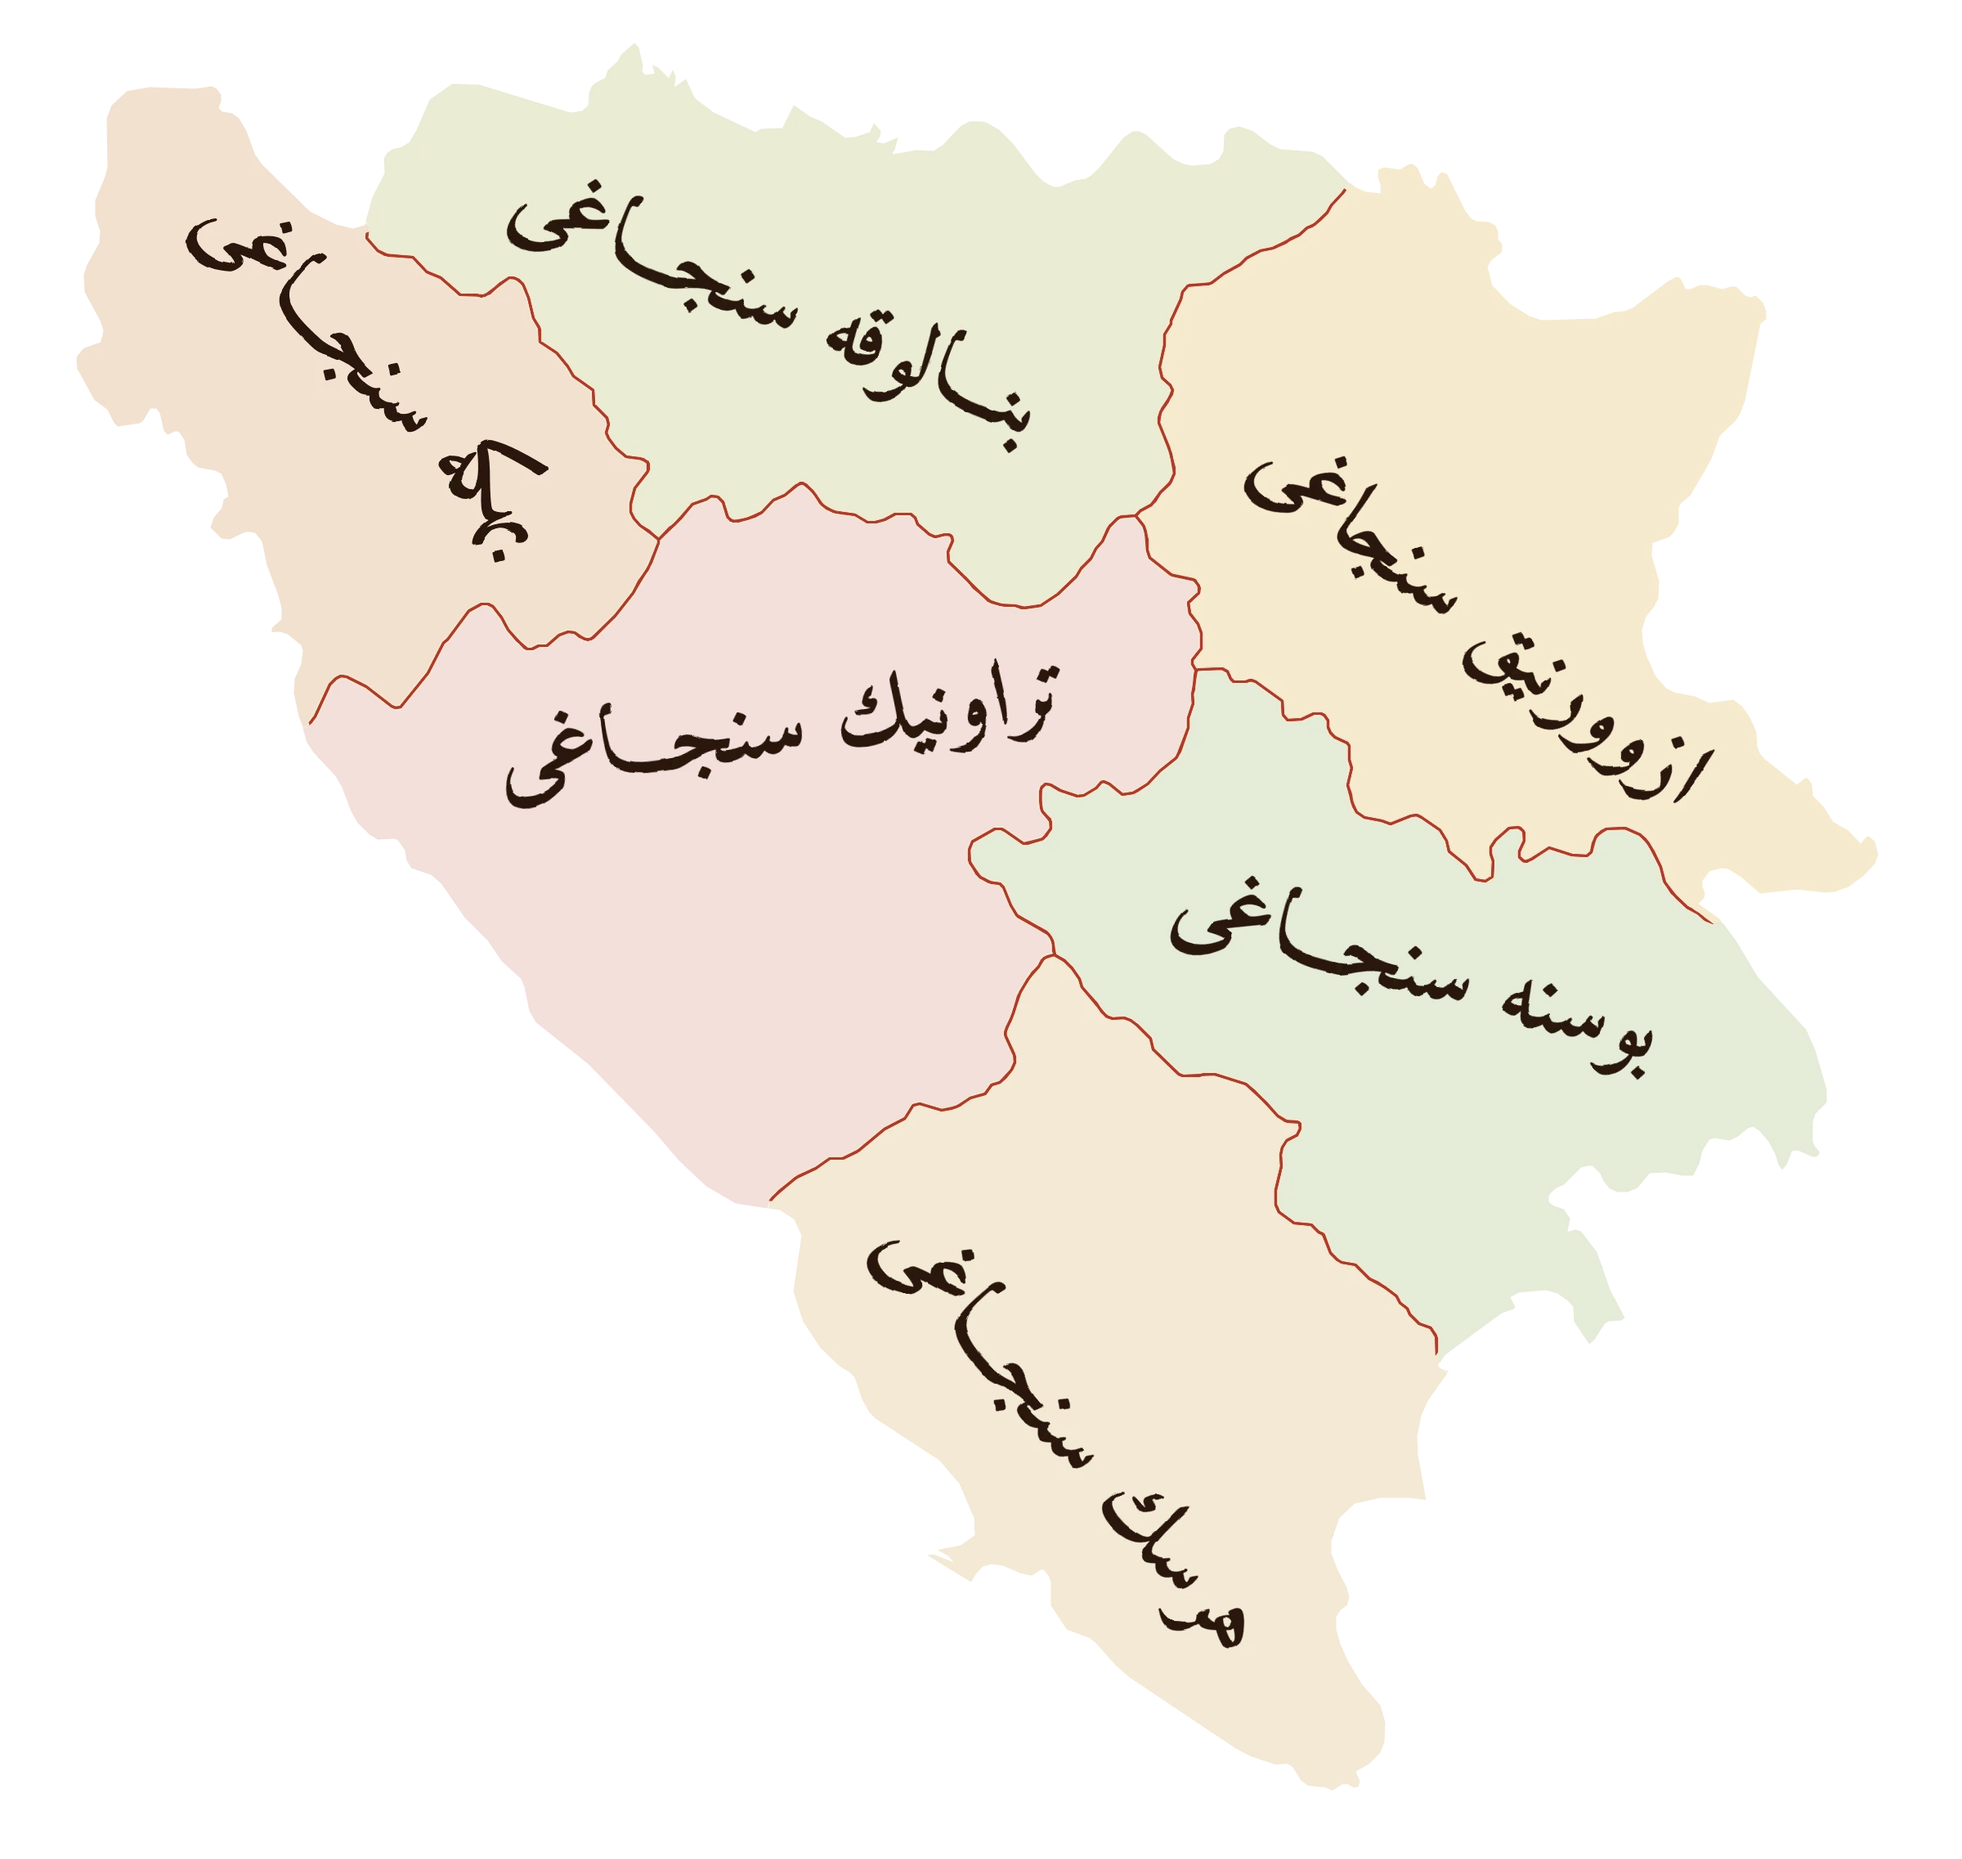
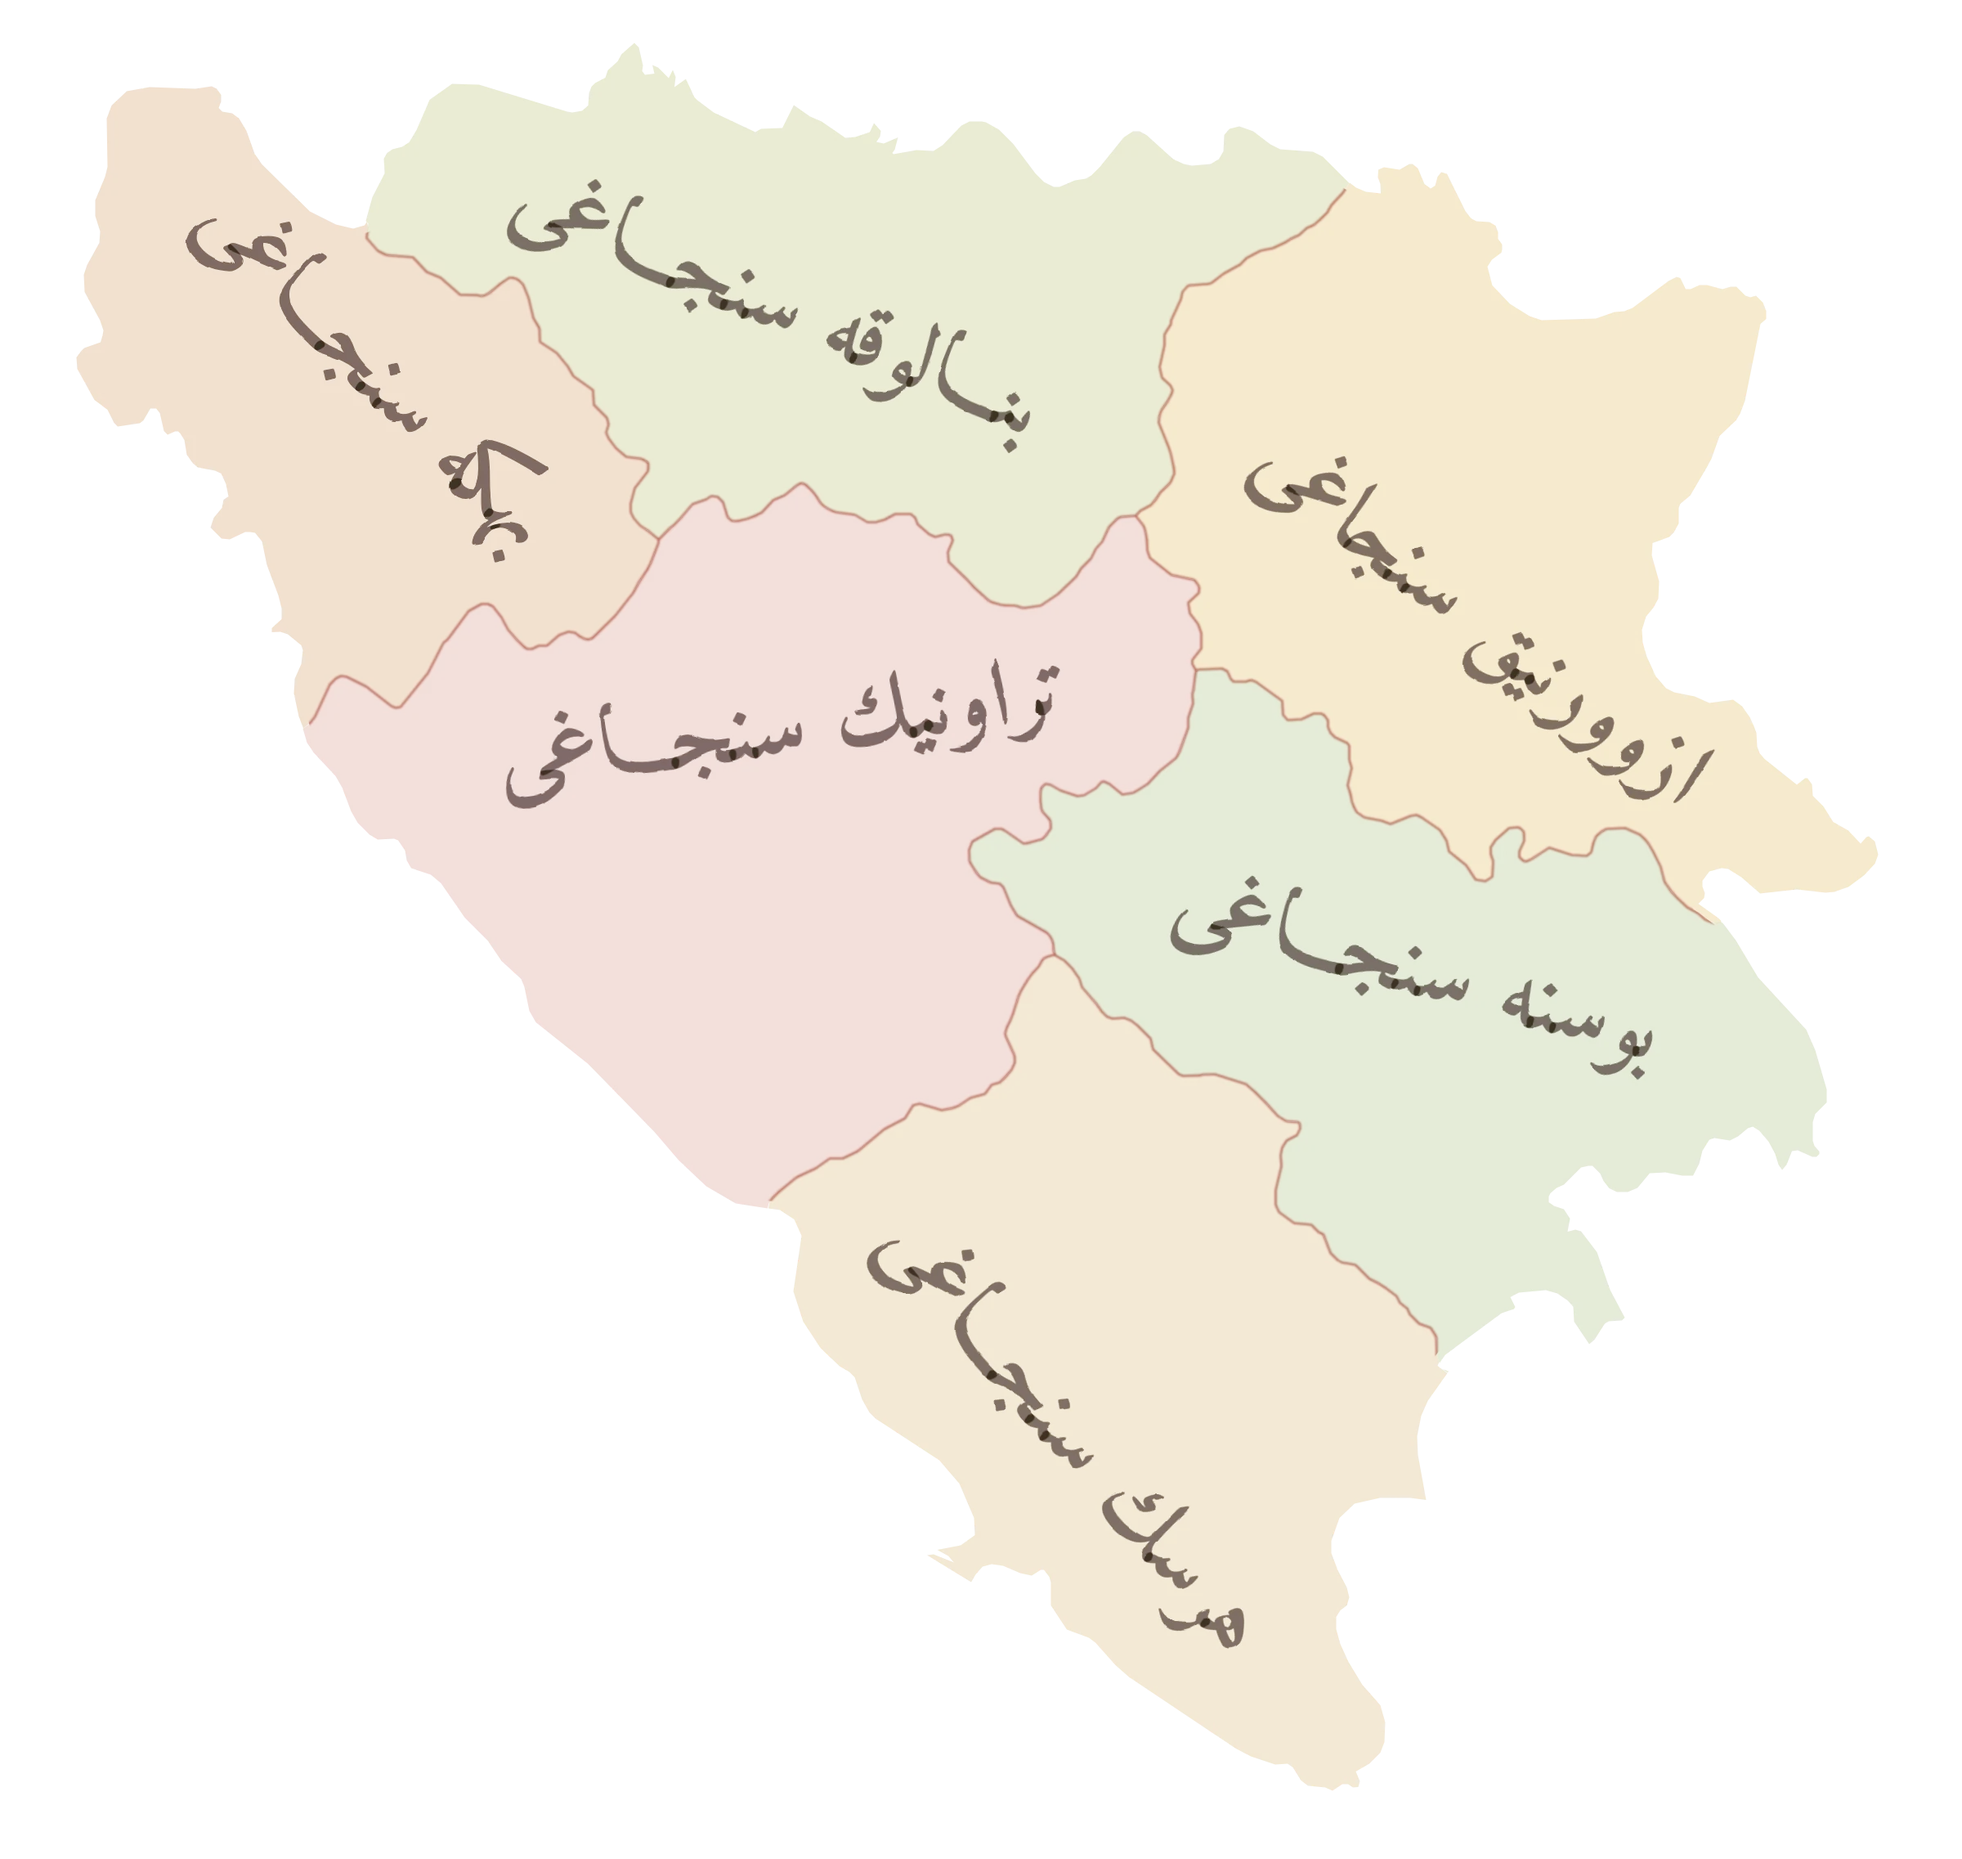
Karte: schlichte Gruppenmarkierung, Zierschicht zurückhaltender
Gruppen als kleiner Nussholz-Kreis mit feinem Goldring statt Şemse-Medaillon.
Sancak-Namen mit halber Deckkraft, Sancak-Grenzen schmaler, heller und weich.

Claude-Session: https://claude.ai/code/session_01RYDkcGLJw7R3TMKLWRs6B8

diff --git a/src/scripts/karta.ts b/src/scripts/karta.ts
@@ -5,7 +5,7 @@
  *   umgefärbt in die Farben der Stilrichtung. Fällt der Dienst aus, bleibt eine
  *   schlichte Karte aus eigenen Daten (Landesgrenze) stehen.
  * - Markierungen: als Bild-Ebenen direkt in der Karte gezeichnet (Spitzbogen =
- *   einzelne Inschrift, Şemse-Medaillon = Gruppe). So bewegen sie sich beim
+ *   einzelne Inschrift, schlichter Kreis mit Anzahl = Gruppe). So bewegen sie sich beim
  *   Verschieben, Zoomen und Drehen exakt mit der Karte mit.
  * - Kompassrose als Nordausrichtung: dreht sich mit, ein Klick richtet nach Norden aus.
  */
@@ -172,22 +172,17 @@ const pinSvg = (farbe: string, gross = false) => {
     <circle cy="-21" r="3.6" fill="${F.krec}"/></svg>`;
 };
 
-const semseSvg = () => {
-  const blaetter = Array.from({ length: 12 }, (_, i) => {
-    const a = (i * Math.PI) / 6;
-    return `<circle cx="${(26 * Math.cos(a)).toFixed(1)}" cy="${(26 * Math.sin(a)).toFixed(1)}" r="7"/>`;
-  }).join('');
-  return `<svg xmlns="http://www.w3.org/2000/svg" width="128" height="128" viewBox="-34 -34 68 68">
-    <g fill="${F.varak}">${blaetter}<circle r="26"/></g>
-    <circle r="21" fill="${F.krec}"/><circle r="18" fill="none" stroke="${F.cilim}" stroke-width="1"/></svg>`;
-};
+/** Gruppe mehrerer Inschriften: schlichter Kreis in Nussholz mit feinem Goldring */
+const gruppeSvg = () => `<svg xmlns="http://www.w3.org/2000/svg" width="64" height="64" viewBox="-16 -16 32 32">
+    <circle r="14.5" fill="none" stroke="${F.varak}" stroke-width="1" opacity="0.9"/>
+    <circle r="12" fill="${F.orah}" fill-opacity="0.92"/></svg>`;
 
 async function ladeBilder(map: MLMap) {
   const auftraege: Promise<void>[] = Object.entries(GRUPPEN).map(async ([id, g]) => {
     map.addImage(`pin-${id}`, await svgBild(pinSvg(g.farbe)), { pixelRatio: 2 });
   });
   auftraege.push(svgBild(pinSvg(F.lapis, true)).then((i) => map.addImage('pin-odabran', i, { pixelRatio: 2 })));
-  auftraege.push(svgBild(semseSvg()).then((i) => map.addImage('semse', i, { pixelRatio: 2 })));
+  auftraege.push(svgBild(gruppeSvg()).then((i) => map.addImage('gruppe', i, { pixelRatio: 2 })));
   await Promise.all(auftraege);
 }
 
@@ -281,17 +276,18 @@ export async function starteKarte() {
     await ladeBilder(map);
     map.addSource('natpisi', { type: 'geojson', data: daten, cluster: true, clusterRadius: 55, clusterMaxZoom: 13 });
 
-    // Gruppen: Şemse-Medaillon mit Anzahl
+    // Gruppen: schlichter Kreis mit Anzahl
     map.addLayer({
       id: 'natpisi-grupe', type: 'symbol', source: 'natpisi', filter: ['has', 'point_count'],
       layout: {
-        'icon-image': 'semse', 'icon-allow-overlap': true, 'icon-size': 0.95,
+        'icon-image': 'gruppe', 'icon-allow-overlap': true,
+        'icon-size': ['interpolate', ['linear'], ['get', 'point_count'], 2, 0.85, 20, 1.15] as any,
         ...(hatSchrift ? {
           'text-field': ['get', 'point_count_abbreviated'], 'text-font': ['Noto Sans Bold'],
-          'text-size': 15, 'text-allow-overlap': true,
+          'text-size': 12, 'text-allow-overlap': true,
         } : {}),
       },
-      paint: { 'text-color': F.orah },
+      paint: { 'text-color': F.krec },
     });
     // Einzelne Inschriften: Spitzbogen in der Farbe der Gruppe
     map.addLayer({

diff --git a/scripts/osmanska-karta/erzeuge.py b/scripts/osmanska-karta/erzeuge.py
@@ -245,7 +245,7 @@ def einheitlich(alle):
 
 
 def schreibe_svg(teile, beschriftungen, bih_pfade, w, h):
-    rot, tinte = '#B23A2B', '#2A1A12'
+    rot, tinte = '#A8473A', '#2A1A12'
     out = [f'<svg xmlns="http://www.w3.org/2000/svg" width="{w}" height="{h}" viewBox="0 0 {w} {h}">',
            '<defs>',
            # Maske: Außengrenze ausblenden (die goldene Landesgrenze kommt aus der Grundkarte)
@@ -263,15 +263,14 @@ def schreibe_svg(teile, beschriftungen, bih_pfade, w, h):
     # zarte Flächenfarben wie im Atlas
     for k, s, d in teile:
         out.append(f'<path d="{d}" fill="{s["farbe"]}" fill-opacity="0.55" fill-rule="evenodd"/>')
-    # rote Sancak-Grenzen: heller Saum + rote Linie
-    out.append('<g mask="url(#innen)" fill="none" stroke-linejoin="round">')
+    # Sancak-Grenzen: weich, schmal, leicht verwischt
+    out.append('<filter id="weich"><feGaussianBlur stdDeviation="1.1"/></filter>')
+    out.append(f'<g mask="url(#innen)" fill="none" stroke-linejoin="round" filter="url(#weich)">')
     for k, s, d in teile:
-        out.append(f'<path d="{d}" stroke="#F6E9CF" stroke-width="7" stroke-opacity="0.8"/>')
-    for k, s, d in teile:
-        out.append(f'<path d="{d}" stroke="{rot}" stroke-width="3.2"/>')
+        out.append(f'<path d="{d}" stroke="{rot}" stroke-width="2.6" stroke-opacity="0.45"/>')
     out.append('</g>')
     # Kalligraphie (Nesih), gerade gesetzt
-    out.append(f'<g fill="{tinte}" fill-opacity="0.86" filter="url(#kalem)">')
+    out.append(f'<g fill="{tinte}" fill-opacity="0.5" filter="url(#kalem)">')
     for k, text, groesse, winkel, x, y in beschriftungen:
         out.append(
             f'<text class="sancak" x="{x:.1f}" y="{y:.1f}" transform="rotate({winkel:.1f} {x:.1f} {y:.1f})" '
